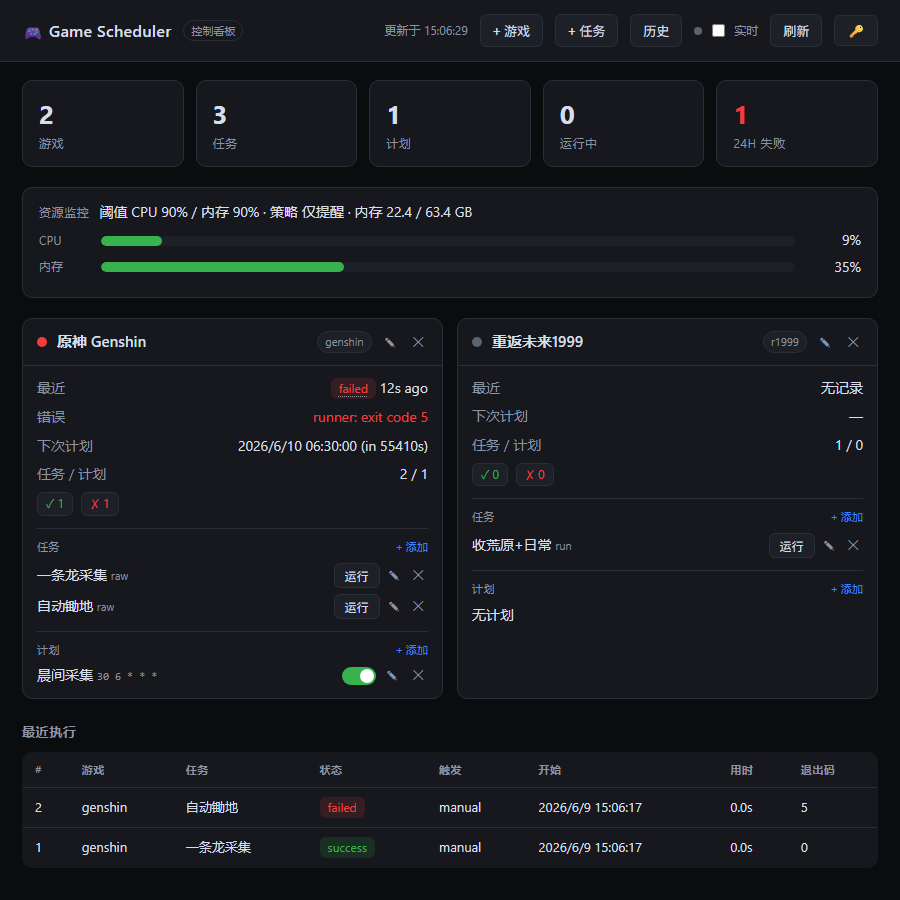
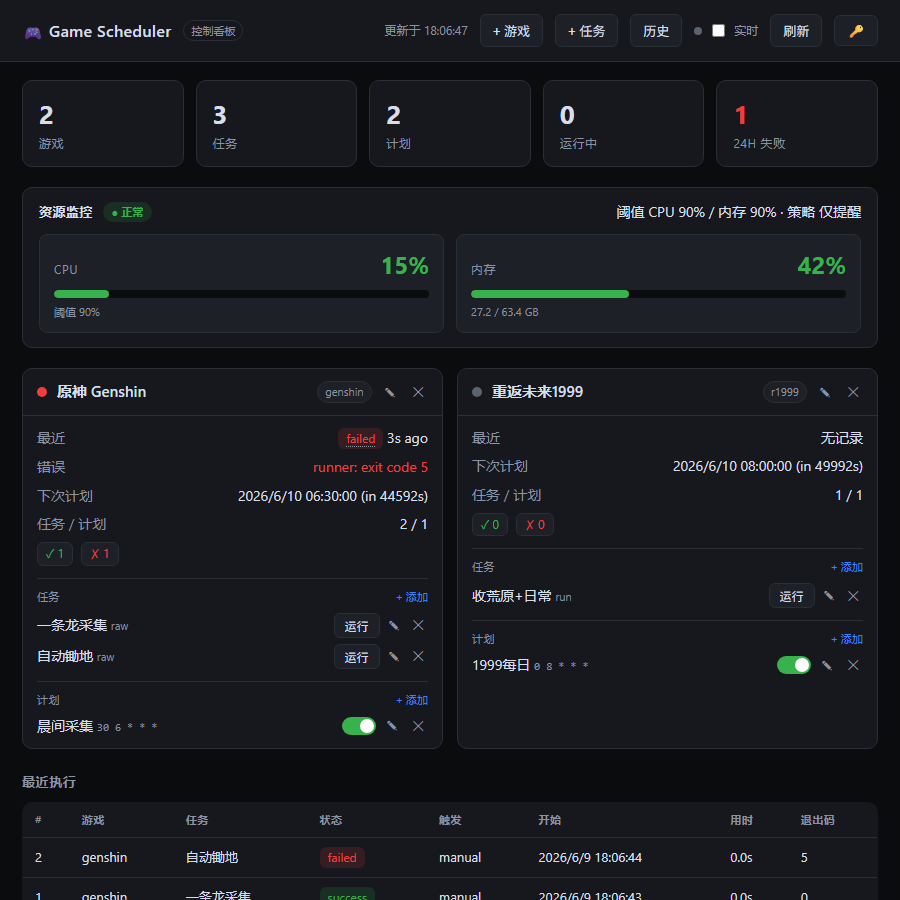
feat(dashboard): prominent resource gauges; refresh README screenshot
Restructure the resource panel into two gauge cards (CPU / 内存) with large
percent readouts, colored bars and used/total GB, plus a 正常/过载 status pill
and threshold·policy line. Overload still shows the red banner and highlights
the breaching gauge. Regenerated docs/dashboard.png.

diff --git a/internal/api/web/index.html b/internal/api/web/index.html
@@ -34,14 +34,23 @@
   .stat.alert .v{color:var(--err)}
   .res{background:var(--panel);border:1px solid var(--border);border-radius:10px;padding:14px 16px;margin-bottom:20px}
   .res.over{border-color:var(--err);box-shadow:0 0 0 1px var(--err) inset}
-  .res .rh{display:flex;align-items:center;gap:10px;margin-bottom:8px;flex-wrap:wrap}
-  .res .rh .t{font-size:12px;color:var(--muted);text-transform:uppercase;letter-spacing:.6px}
-  .res .banner{color:var(--err);font-weight:600;font-size:13px}
-  .bar{display:grid;grid-template-columns:52px 1fr 56px;align-items:center;gap:10px;margin:6px 0}
-  .bar .lab{color:var(--muted);font-size:12px}
-  .track{height:10px;background:var(--panel2);border-radius:6px;overflow:hidden}
+  .res .rh{display:flex;align-items:center;gap:10px;margin-bottom:12px;flex-wrap:wrap}
+  .res .rh .t{font-size:13px;font-weight:600;letter-spacing:.4px}
+  .res .rh .status{font-size:11px;padding:2px 9px;border-radius:20px;font-weight:600}
+  .res .rh .status.ok{background:rgba(55,178,77,.15);color:var(--ok)}
+  .res .rh .status.over{background:rgba(240,62,62,.15);color:var(--err)}
+  .res .rh .meta{margin-left:auto}
+  .res .banner{margin-top:12px;color:var(--err);font-weight:600;font-size:13px}
+  .gauges{display:grid;grid-template-columns:1fr 1fr;gap:12px}
+  .gauge{background:var(--panel2);border:1px solid var(--border);border-radius:8px;padding:12px 14px}
+  .gauge.over{border-color:var(--err)}
+  .g-top{display:flex;align-items:baseline;justify-content:space-between;margin-bottom:8px}
+  .g-label{color:var(--muted);font-size:12px;text-transform:uppercase;letter-spacing:.6px}
+  .g-val{font-size:24px;font-weight:700;font-variant-numeric:tabular-nums}
+  .g-sub{color:var(--muted);font-size:11px;margin-top:6px}
+  .track{height:8px;background:var(--bg);border-radius:6px;overflow:hidden}
   .fill{height:100%;border-radius:6px;transition:width .4s linear,background .4s}
-  .bar .pct{text-align:right;font-variant-numeric:tabular-nums}
+  @media(max-width:560px){.gauges{grid-template-columns:1fr}}
   .grid{display:grid;grid-template-columns:repeat(auto-fill,minmax(320px,1fr));gap:14px;margin-bottom:24px}
   .card{background:var(--panel);border:1px solid var(--border);border-radius:10px;overflow:hidden}
   .card .top{display:flex;align-items:center;gap:10px;padding:12px 14px;border-bottom:1px solid var(--border)}
@@ -241,24 +250,33 @@ function gameCard(g){
   </div>`;
 }
 
-function resBar(label,pct,threshold){
+function gauge(label, pct, threshold, sub){
   const v=Math.max(0,Math.min(100,pct||0));
-  const col = (threshold>0&&v>=threshold)?'var(--err)':(v>=70?'var(--warn)':'var(--ok)');
-  return `<div class="bar"><span class="lab">${label}</span>
+  const over=threshold>0&&v>=threshold;
+  const col = over?'var(--err)':(v>=70?'var(--warn)':'var(--ok)');
+  return `<div class="gauge ${over?'over':''}">
+    <div class="g-top"><span class="g-label">${label}</span><span class="g-val" style="color:${col}">${v.toFixed(0)}%</span></div>
     <div class="track"><div class="fill" style="width:${v}%;background:${col}"></div></div>
-    <span class="pct">${v.toFixed(0)}%</span></div>`;
+    <div class="g-sub">${sub}</div>
+  </div>`;
 }
 function renderResource(r){
   const el=$("#resource");
   if(!r||!r.enabled){ el.innerHTML=""; return; }
-  const memTxt = r.mem_total_mb ? ` · 内存 ${(r.mem_used_mb/1024).toFixed(1)} / ${(r.mem_total_mb/1024).toFixed(1)} GB` : "";
-  const head = r.overloaded
-    ? `<span class="banner">⚠ 资源过载：${esc(r.reason)}${r.policy==='pause'?'（已暂停定时任务）':''}</span>`
-    : `<span class="meta">阈值 CPU ${r.cpu_threshold}% / 内存 ${r.mem_threshold}% · 策略 ${r.policy==='pause'?'过载暂停':'仅提醒'}${memTxt}</span>`;
+  const memSub = r.mem_total_mb ? `${(r.mem_used_mb/1024).toFixed(1)} / ${(r.mem_total_mb/1024).toFixed(1)} GB` : `阈值 ${r.mem_threshold}%`;
+  const status = r.overloaded ? `<span class="status over">⚠ 过载</span>` : `<span class="status ok">● 正常</span>`;
+  const banner = r.overloaded
+    ? `<div class="banner">⚠ 资源过载：${esc(r.reason)}${r.policy==='pause'?'（已暂停定时任务）':''}</div>` : "";
   el.innerHTML = `<div class="res ${r.overloaded?'over':''}">
-    <div class="rh"><span class="t">资源监控</span>${head}</div>
-    ${resBar('CPU', r.cpu_percent, r.cpu_threshold)}
-    ${resBar('内存', r.mem_percent, r.mem_threshold)}
+    <div class="rh">
+      <span class="t">资源监控</span>${status}
+      <span class="meta">阈值 CPU ${r.cpu_threshold}% / 内存 ${r.mem_threshold}% · 策略 ${r.policy==='pause'?'过载暂停':'仅提醒'}</span>
+    </div>
+    <div class="gauges">
+      ${gauge('CPU', r.cpu_percent, r.cpu_threshold, `阈值 ${r.cpu_threshold}%`)}
+      ${gauge('内存', r.mem_percent, r.mem_threshold, memSub)}
+    </div>
+    ${banner}
   </div>`;
 }
 